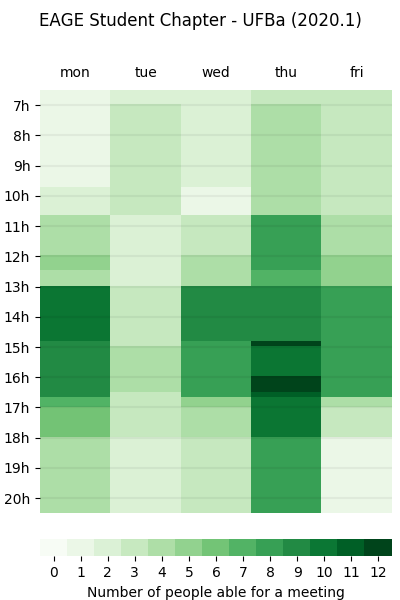
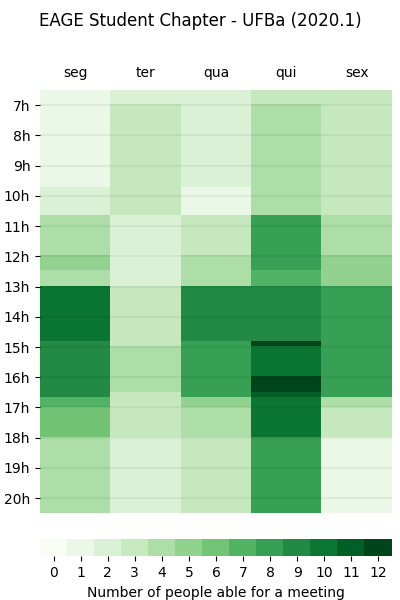
some changes

diff --git a/times.py b/times.py
@@ -11,14 +11,6 @@ DAYNAMESEN = [['mon', 'monday'],
               ['fri', 'friday'],
               ['sat', 'saturday'],
               ['sun', 'sunday']]
-DAYNAMESPT = [[ 'seg', 'segunda', 'segunda-feira',],
-              [ 'ter', 'terça', 'terça-feira',],
-              [ 'qua',  'quarta', 'quarta-feira',],
-              [ 'qui',  'quinta', 'quinta-feira',],
-              [ 'sex',  'sexta', 'sexta-feira',],
-              [ 'sáb',  'sábado', 'sab',],
-              [ 'dom', 'sunday', 'domingo',]]
-DAYNAMES = [ DAYNAMESEN[d]+DAYNAMESPT[d] for d in range(7) ]
 SHORTDAYNAMESEN = [ dayname[0] for dayname in DAYNAMESEN ]
 
 
@@ -53,7 +45,7 @@ def format_interval(interval):
     return(t1,t2)
 
 # rename variables for more readability...
-def edit_daytimes(daytimes, DAYNAMES=DAYNAMES):
+def edit_daytimes(daytimes, DAYNAMES=DAYNAMESEN):
     daytimes = re.findall(r'\(([^\)]+)\)|(\S+)', daytimes)
     for dt,_ in enumerate(daytimes):
         daytimes[dt] = [intervals for intervals in daytimes[dt] if intervals][0]
@@ -87,68 +79,89 @@ def edit_daytimes(daytimes, DAYNAMES=DAYNAMES):
     return(edited_daytimes)
 
 
-def plot_times(edited_daytimes, start_time=7, end_time=20,
-            daynames=SHORTDAYNAMESEN, first_day='sun', last_day='fri',
+def plot_times(intervals,
+            possible_daynames=DAYNAMESEN, also_possibly_en_daynames=True,
+            disp_daynames=None,
             header='', ax_title='', hourhlines=True,
+            first_day=0, last_day=4,
+            start_time=7, end_time=20,
+            cmap='Blues',
             filename=None):
+    # setting possible_daynames
+    if also_possibly_en_daynames:
+        for d in range(7):
+            if possible_daynames[d] != DAYNAMESEN[d]:
+                possible_daynames[d] += DAYNAMESEN[d]
+    if not disp_daynames:
+        disp_daynames = [ dayname[0] for dayname in possible_daynames ]
+
     # creating grid for week times
-    grid = np.zeros((24*60,7))
-    for horario in horarios.values():
-        hdays = edit_daytimes(horario)
+    grid = np.zeros((24*60,7))  # 24 hours, 60 minutes/hour, 7 days
+    # filling weektimes
+    for interval in intervals.values():
+        hdays = edit_daytimes(interval, possible_daynames)
         for d, day in enumerate(hdays):
             daygrid = np.zeros(24*60)
             for times in day:
                 daygrid[times[0]:times[1]] = 1
             grid[:, d] += daygrid
 
-    first_day = first_day if type(first_day)==int else daynames.index(first_day)
-    last_day = last_day if type(last_day)==int else daynames.index(last_day)
-    if first_day==6:
-        daynames.insert(0,daynames.pop())
+    # translating days to numbers
+    if not isinstance(first_day, int):
+        first_day = disp_daynames.index(first_day)
+    if not isinstance(last_day, int):
+        last_day = disp_daynames.index(last_day)
+    # if first day is sunday, roll list so that it is true
+    if first_day == 6:
+        disp_daynames.insert(0, disp_daynames.pop())
         grid = np.roll(grid, 1)
-        first_day=0
+        first_day = 0
+    # cmap input can be a cmap obbject or cmap name string
+    cmap = plt.get_cmap(cmap)
 
-    h1,m1 = format_time(start_time)
-    h2,m2 = format_time(end_time)
-    t1    = h1*60+m1
-    t2    = h2*60+m2
+    # day start and end times: (h1,m1) and (h2,m2)
+    h1, m1 = format_time(start_time)
+    h2, m2 = format_time(end_time)
+    t1 = h1*60+m1
+    t2 = h2*60+m2
 
     # creating canvas
-    fig = plt.figure(figsize=(4,6))
+    fig = plt.figure(figsize=(4, 6))
+    # setting bigger title
     fig.suptitle(header, va='top')
 
     # creating axes
-    ax  = fig.add_axes([.1,0,.88,.85])
+    ax = fig.add_axes([.1,0,.88,.85])
     ax.set_title(ax_title, y=1.08)
 
     # plotting grid heatmap to axes
     img = ax.imshow(grid, aspect='auto', interpolation='nearest', cmap=cmap)
     # configuring axes
     ax.set_xticks(np.arange(grid.shape[1]))
-    ax.set_xticklabels(daynames)
+    ax.set_xticklabels(disp_daynames)
     ax.yaxis.set_ticks(np.arange(0, grid.shape[0]+1, 60))
     #ax.set_yticklabels([ f'{hour}h' for hour in range(h1,h2+1,1) ])
-    ax.set_yticklabels([ f'{hour}h' for hour in range(0,24+1,1) ])
+    ax.set_yticklabels([f'{hour}h' for hour in range(0, 24+1, 1)])
     # limit plot of grid
-    ax.set_ylim((t2,t1))
-    ax.set_xlim((first_day-.5,last_day+.5))
+    ax.set_ylim((t2, t1))
+    ax.set_xlim((first_day-.5, last_day+.5))
     # Let the horizontal axes labeling appear on top.
     ax.tick_params(top=False, bottom=False,
                    left=True, right=False,
                    labelleft=True, labelright=False,
                    labeltop=True, labelbottom=False)
     if hourhlines:
-        for hour in range(0,24+1):
+        for hour in range(0, 24+1):
             ax.axhline(60*hour, color="black", alpha=.05, ls='-')
     # Turn spines off and create
-    for edge, spine in ax.spines.items():
+    for _, spine in ax.spines.items():  # edge, spine
         spine.set_visible(False)
 
     # create colorbar
     visiblegridmin = grid[t1:t2].min()
     visiblegridmax = grid[t1:t2].max()
-    bounds=np.arange(visiblegridmin,visiblegridmax+2, dtype=int)
-    vals=bounds[:-1]
+    bounds = np.arange(visiblegridmin, visiblegridmax+2, dtype=int)
+    vals = bounds[:-1]
     norm = clr.BoundaryNorm(bounds, cmap.N)
     cbar = ax.figure.colorbar(img,
                               fraction=.12,
@@ -164,25 +177,26 @@ def plot_times(edited_daytimes, start_time=7, end_time=20,
     cbar.ax.set_xlabel('Number of people able for a meeting', rotation=0)
     cbar.outline.set_linewidth(0)
 
-    if filename: plt.savefig(filename)
+    # if filename set, save generated figure
+    if filename:
+        plt.savefig(filename)
     plt.show()
+
 
 
 
 
 if __name__ == '__main__':
 
-    cmap = 'Greens'
-    cmap = plt.get_cmap(cmap)
-
-    DAYNAMESPT = [[ 'seg', 'segunda', 'segunda-feira',],
-                  [ 'ter', 'terça', 'terça-feira',],
-                  [ 'qua',  'quarta', 'quarta-feira',],
-                  [ 'qui',  'quinta', 'quinta-feira',],
-                  [ 'sex',  'sexta', 'sexta-feira',],
-                  [ 'sáb',  'sábado', 'sab',],
-                  [ 'dom', 'sunday', 'domingo',]]
-    SHORTDAYNAMESPT = [ dayname[0] for dayname in DAYNAMESPT ]
+    # both portuguese and english
+    possible_daynames_pt = [['seg', 'segunda', 'segunda-feira',],
+                            ['ter', 'terça', 'terça-feira',],
+                            ['qua', 'quarta', 'quarta-feira',],
+                            ['qui', 'quinta', 'quinta-feira',],
+                            ['sex', 'sexta', 'sexta-feira',],
+                            ['sáb', 'sábado', 'sab',],
+                            ['dom', 'sunday', 'domingo',]]
+    disp_daynames_pt = [dayname[0] for dayname in possible_daynames_pt]
 
     #horarios = {
     #        "a": "13...15 (seg + seg + 7-9) (tue + 19:..20)",
@@ -190,27 +204,35 @@ if __name__ == '__main__':
     #        "c": "(13h30-14:20 15...16) nope nope seg (seg + thu)",
     #    }
     # bota manhã e tarde, bro
+
     horarios = {
-            "Nilo":        "nope 15... nope 13...",
-            "Rada":        "13-17 ...10h40 nope tue -12",
-            "Maria":       "13-17 seg seg seg seg seg seg",
-            "André":       "nope nope nope nope 13-17",
-            "Lorena":      "13-14:50 -10:40 seg",
-            "Laian":       "nope nope nope 16-16:40",
-            "Anderson":    "nope nope nope 5-17",
-            "Vinicius":    "13- nope seg (-14 16-)",
-            "Mari":        "10:40- 7-14h seg ter -16h40",
-            "Leticia":     "12-16:40 nope seg 14:50- seg",
-            "Gutembergue": "14:50-17:00 nope seg nope seg",
-            "Alber":       "13-16:40 nope seg 14:50- seg",
-            "Isaac":       "10:40- seg seg seg seg",
-            "Rômulo":      "13-16h40 nope seg 14:50- seg",
-            "Annie":       "16:40- nope nope 10h40-",
-            "Maria M":     "nope 15h-16:30 nope 10:40-16:30",
-            "Vasco":       "-14:50 nope seg 10h40- seg",
-            "Milton":      "9:45-12:30 nope -9:45 10h40-12:30",
+        "Nilo":        "nenhum 15... nenhum 13...",
+        "Rada":        "13-17 ...10h40 nenhum tue -12",
+        "Maria":       "13-17 seg seg seg seg seg seg",
+        "André":       "nenhum nenhum nenhum nenhum 13-17",
+        "Lorena":      "13-14:50 -10:40 seg",
+        "Laian":       "nenhum nenhum nenhum 16-16:40",
+        "Anderson":    "nenhum nenhum nenhum 5-17",
+        "Vinicius":    "13- nenhum seg (-14 16-)",
+        "Mari":        "10:40- 7-14h seg ter -16h40",
+        "Leticia":     "12-16:40 nenhum seg 14:50- seg",
+        "Gutembergue": "14:50-17:00 nenhum seg nenhum seg",
+        "Alber":       "13-16:40 nenhum seg 14:50- seg",
+        "Isaac":       "10:40- seg seg seg seg",
+        "Rômulo":      "13-16h40 nenhum seg 14:50- seg",
+        "Annie":       "16:40- nenhum nenhum 10h40-",
+        "Maria M":     "nenhum 15h-16:30 nenhum 10:40-16:30",
+        "Vasco":       "-14:50 nenhum seg 10h40- seg",
+        "Milton":      "9:45-12:30 nenhum -9:45 10h40-12:30",
         }
 
-    plot_times(horarios, start_time='6:30', end_time=20.5,
-            first_day='mon', last_day='fri',
-            header="EAGE Student Chapter - UFBa (2020.1)", filename='times.png')
+
+    plot_times(horarios,
+               possible_daynames=possible_daynames_pt,
+               also_possibly_en_daynames=True,
+               first_day='seg', last_day='sex',
+               header="EAGE Student Chapter - UFBa (2020.1)",
+               start_time='6:30', end_time=20.5,
+               cmap='Greens',
+               hourhlines=True,
+               filename='times.png')
